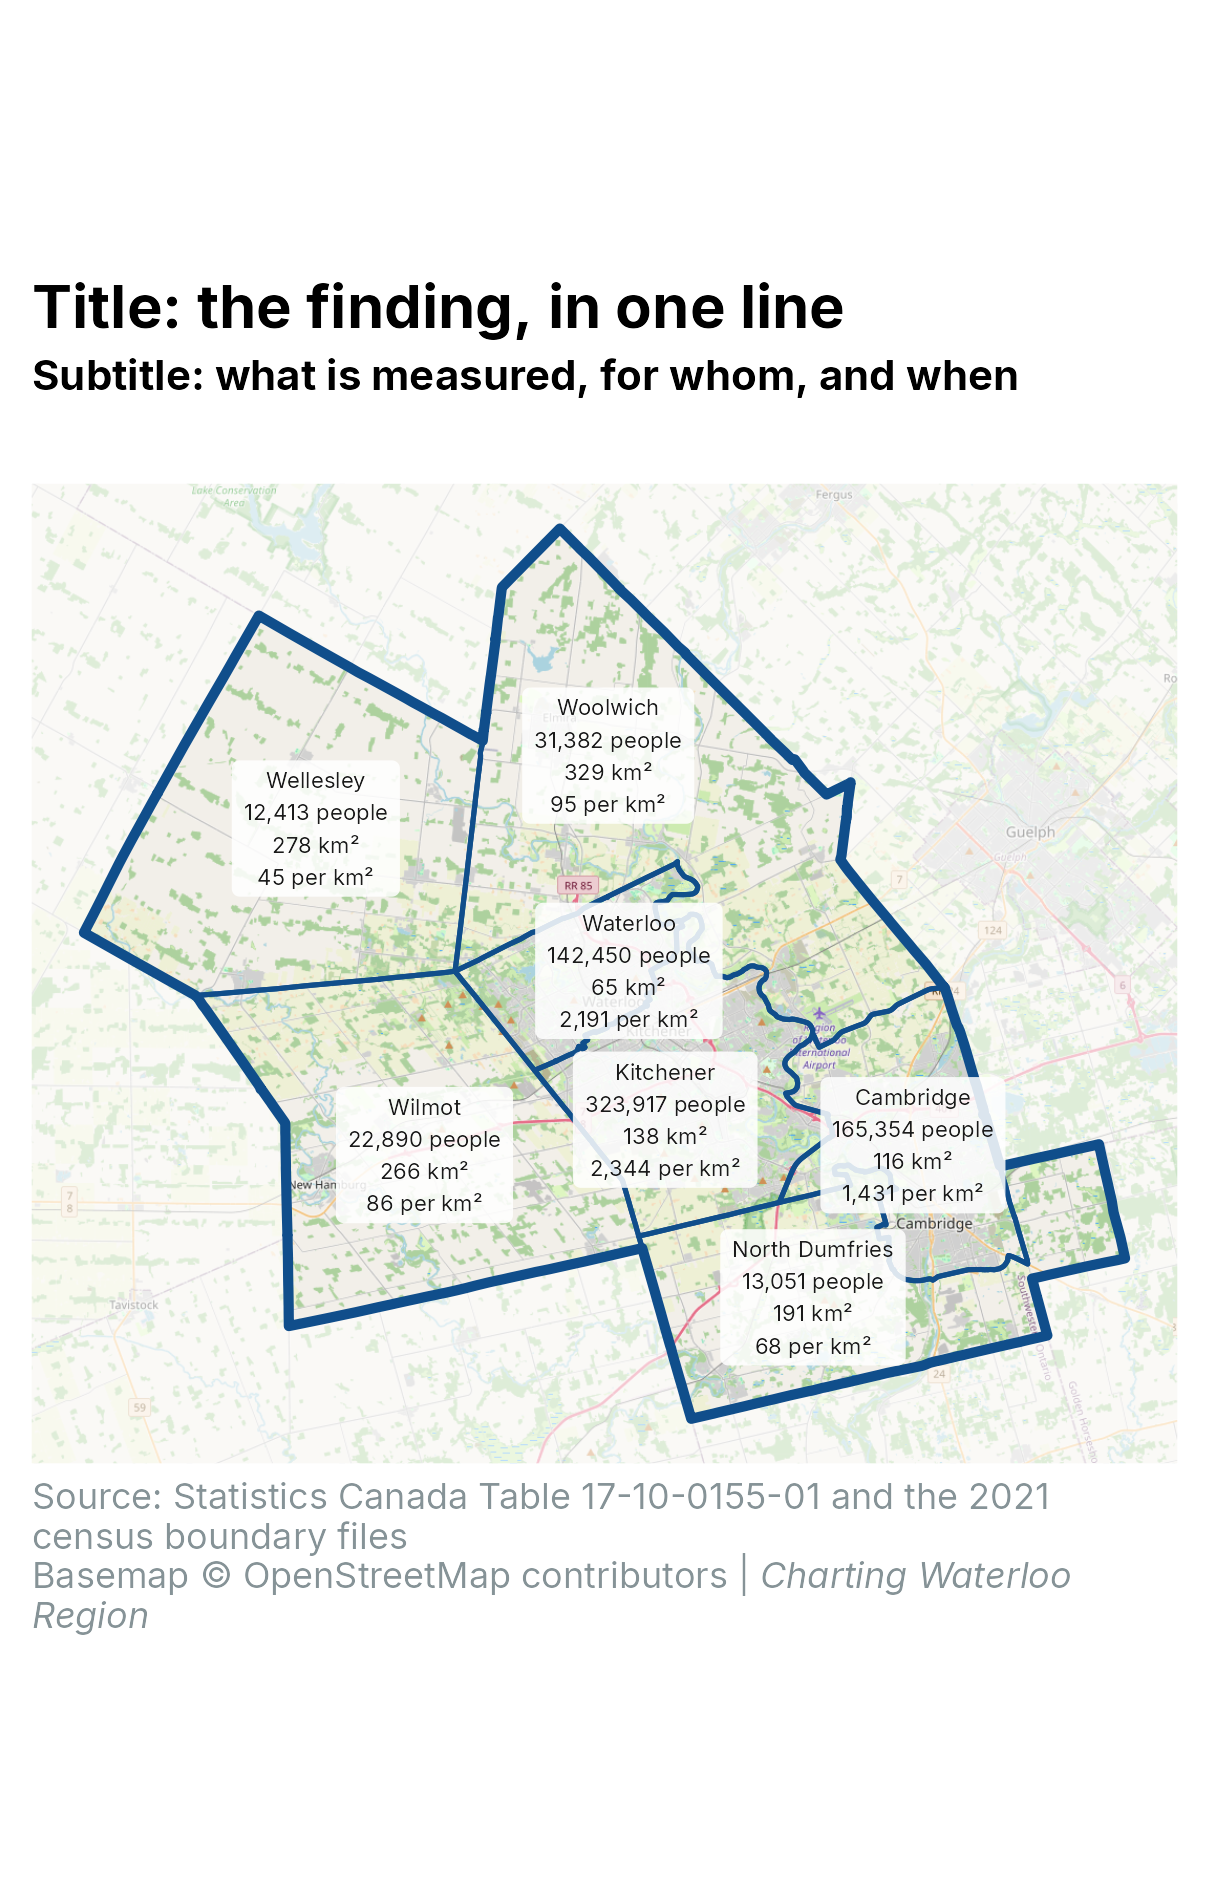
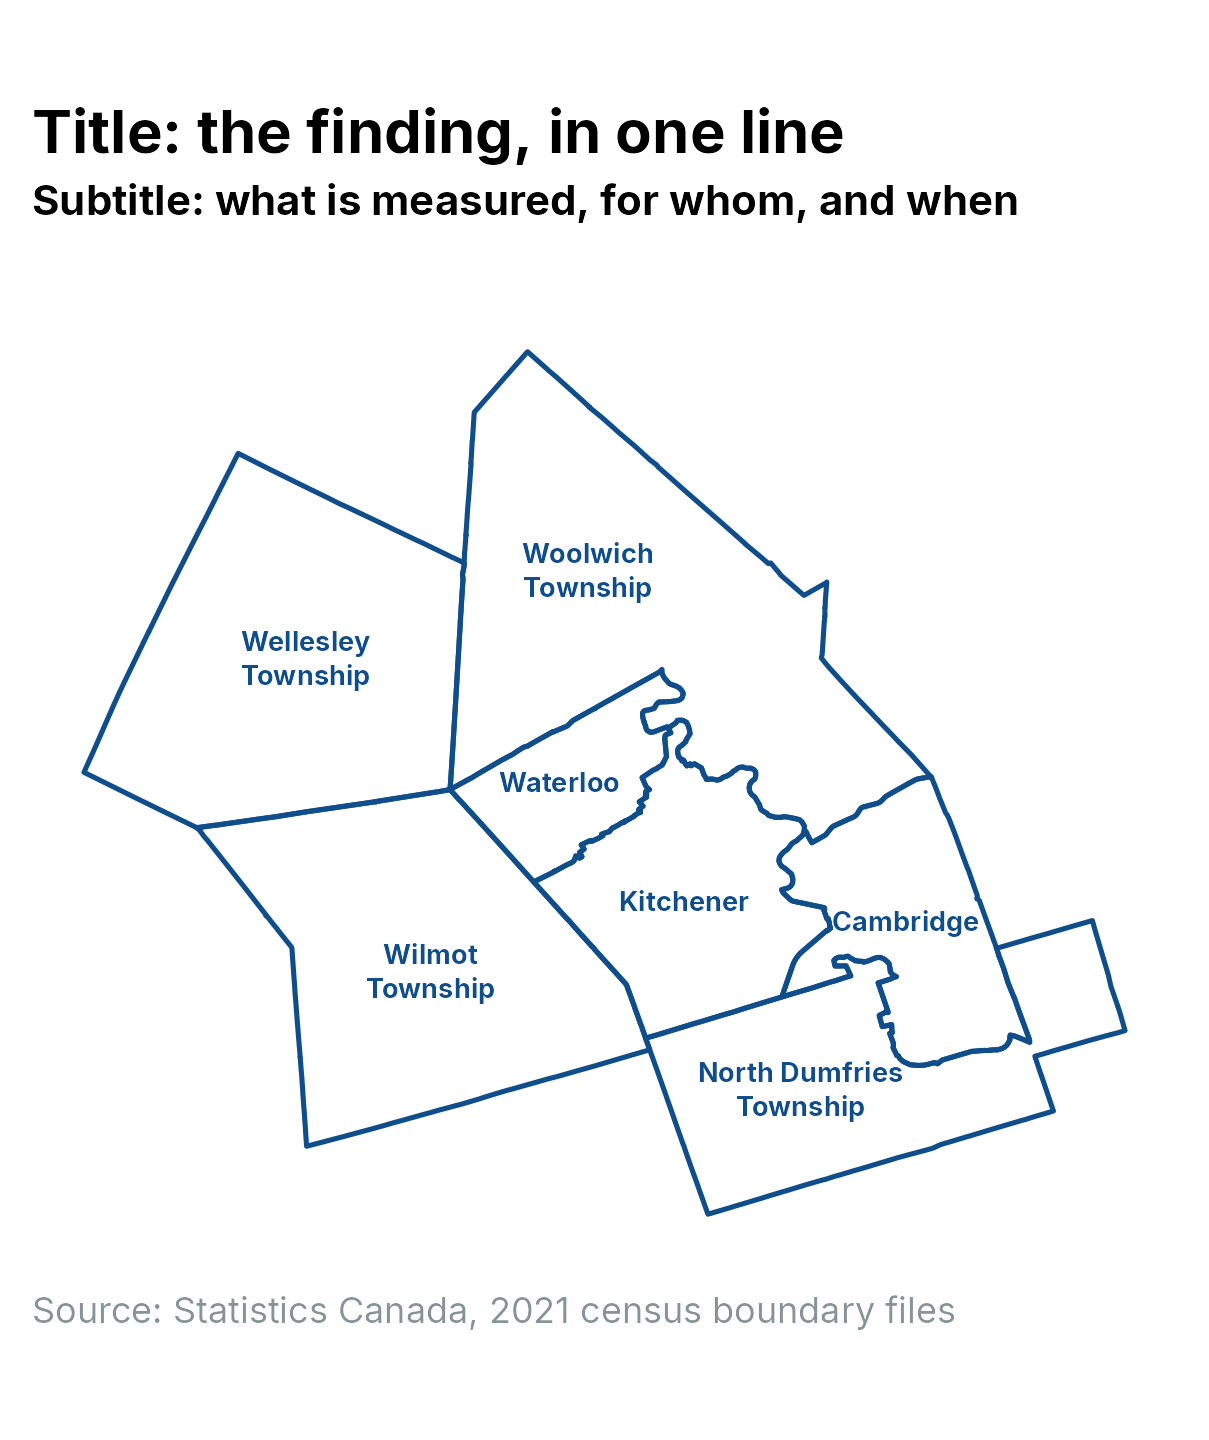
Simplify the welcome map to plain blue outlines and labels
Drops the OpenStreetMap basemap, the white wash over the surroundings and
the population, area and density figures. What is left is the seven
boundaries in blue on white, each labelled in blue with Township appended
where it applies.

Drawn in EPSG:3161 now that there are no web tiles to line up with, so the
shapes keep their proportions. The OpenStreetMap row and note are out of
the README, since the post no longer uses tiles, and maptiles, terra and
tidyterra are out of R/packages.R for the same reason.

diff --git a/posts/welcome/README.md b/posts/welcome/README.md
@@ -8,7 +8,6 @@ Post: https://chartingwaterlooregion.ca/posts/welcome/
 |---|---|---|---|---|
 | `table_17100155.csv` | Table 17-10-0155-01, population estimates on 1 July by census subdivision, 2021 boundaries | [Statistics Canada](https://www150.statcan.gc.ca/t1/tbl1/en/tv.action?pid=1710015501) | [Statistics Canada Open Licence](https://www.statcan.gc.ca/en/reference/licence) | 2026-09-14 |
 | `csd_boundaries/` | 2021 census subdivision cartographic boundary file (`lcsd000b21a_e`), the municipal polygons | [Statistics Canada](https://www12.statcan.gc.ca/census-recensement/2021/geo/sip-pis/boundary-limites/index2021-eng.cfm?year=21) | [Statistics Canada Open Licence](https://www.statcan.gc.ca/en/reference/licence) | 2026-09-14 |
-| `tiles/` | OpenStreetMap map tiles used as the street map under the first chart, cached by `maptiles` | [OpenStreetMap](https://www.openstreetmap.org/copyright) | [ODbL 1.0](https://opendatacommons.org/licenses/odbl/1-0/); map tiles © OpenStreetMap contributors, [CC BY-SA 2.0](https://creativecommons.org/licenses/by-sa/2.0/) | 2026-09-14 |
 
 Files that cannot be re-downloaded by script, or are over 25 MB, are attached to a GitHub Release
 (tag shown in the table) and fetched by `R/01_get_data.R`. Nothing in this post needs one: every
@@ -31,9 +30,6 @@ Then `quarto render posts/welcome` from a terminal.
 
 - Background reading for this post is kept outside the repository (`../chartingwaterlooregion-background/welcome/`).
 - No API keys are needed.
-- The map tiles are not redistributed here: `data-raw/tiles/` is gitignored, and the chart that
-  uses them credits OpenStreetMap in its caption. Only the finished PNGs in `figures/` are
-  committed, which is normal use of the tiles rather than republication of the tile set.
 - Area and density are calculated from the boundary polygons, not taken from a published table,
   so they include inland water. Statistics Canada's own `LANDAREA` field excludes it and runs
   about one per cent smaller for most of the Region.
